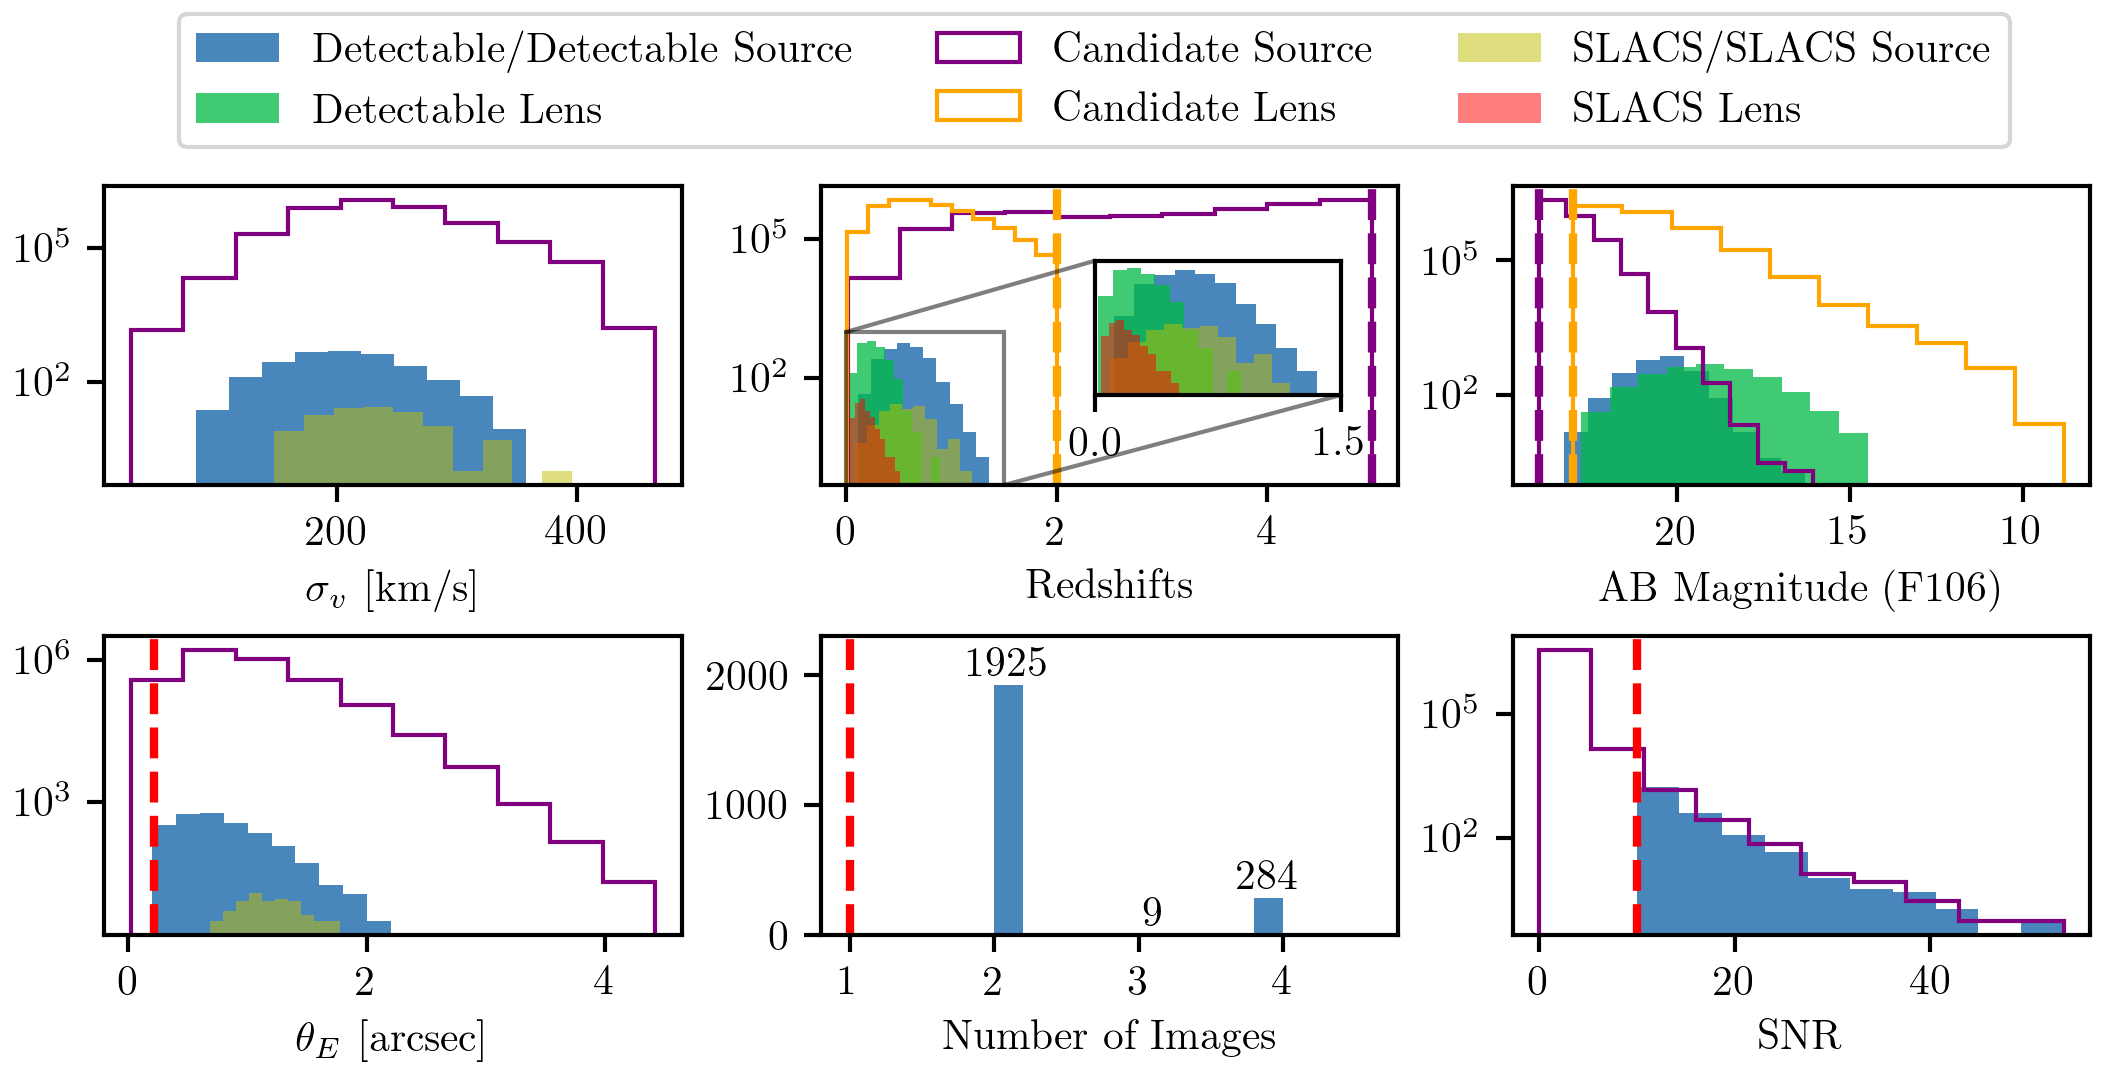
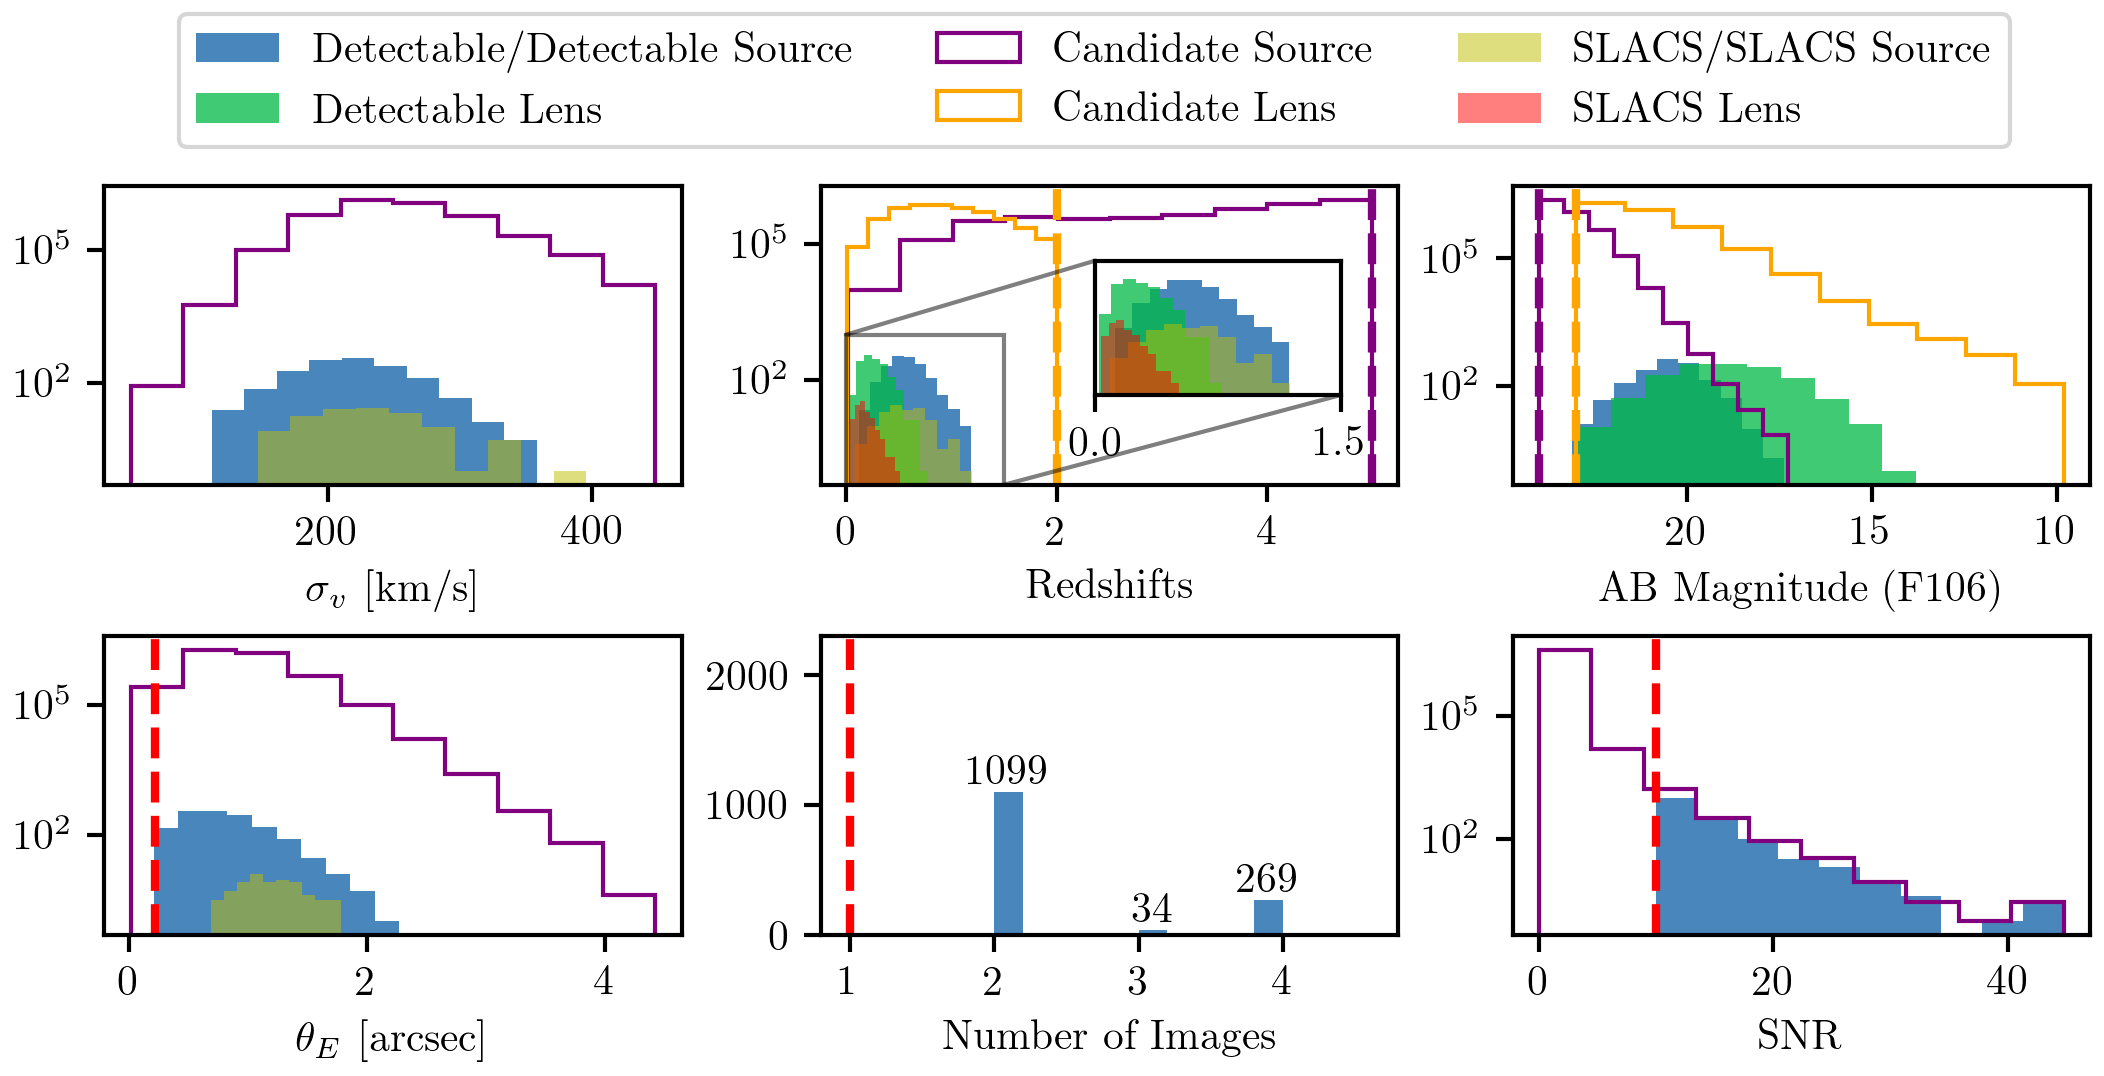
test detectable lenses as fn of gal mag cuts

diff --git a/scripts/pipeline/00_hlwas_sim.py b/scripts/pipeline/00_hlwas_sim.py
@@ -20,7 +20,7 @@ def main(config):
     start = time.time()
 
     # set number of runs
-    runs = 60
+    runs = 20
 
     # debugging mode will print statements to console
     debugging = True
